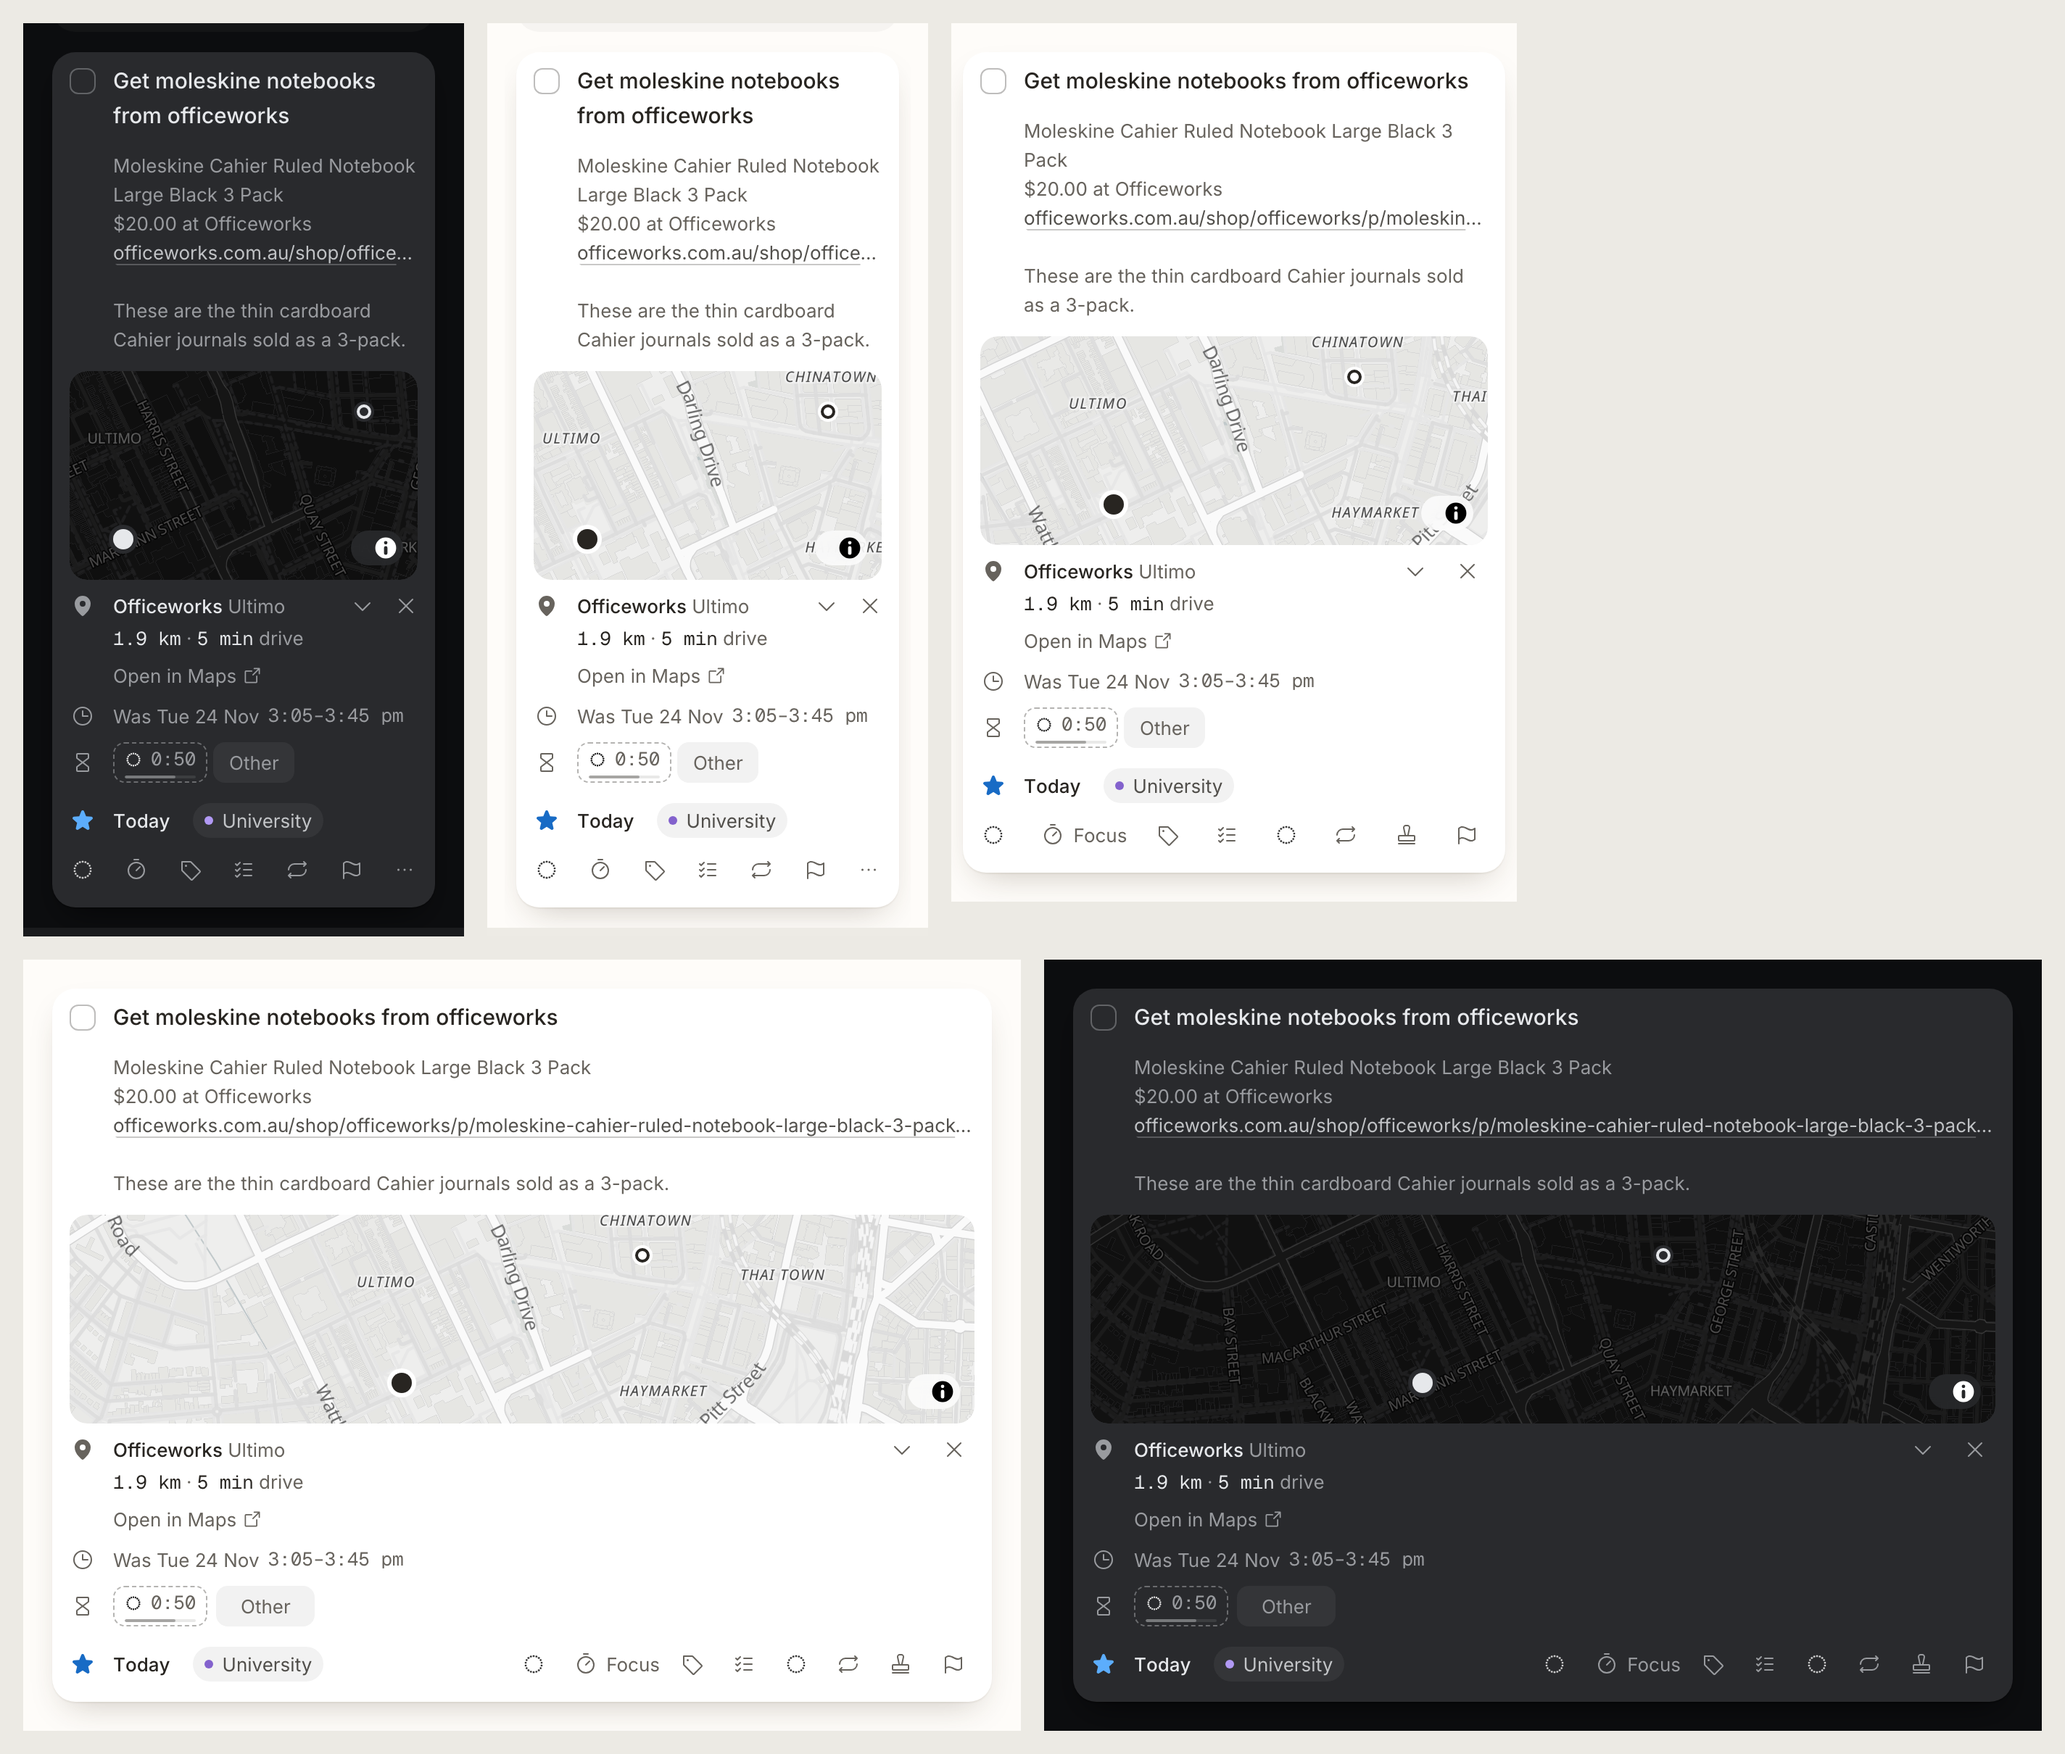
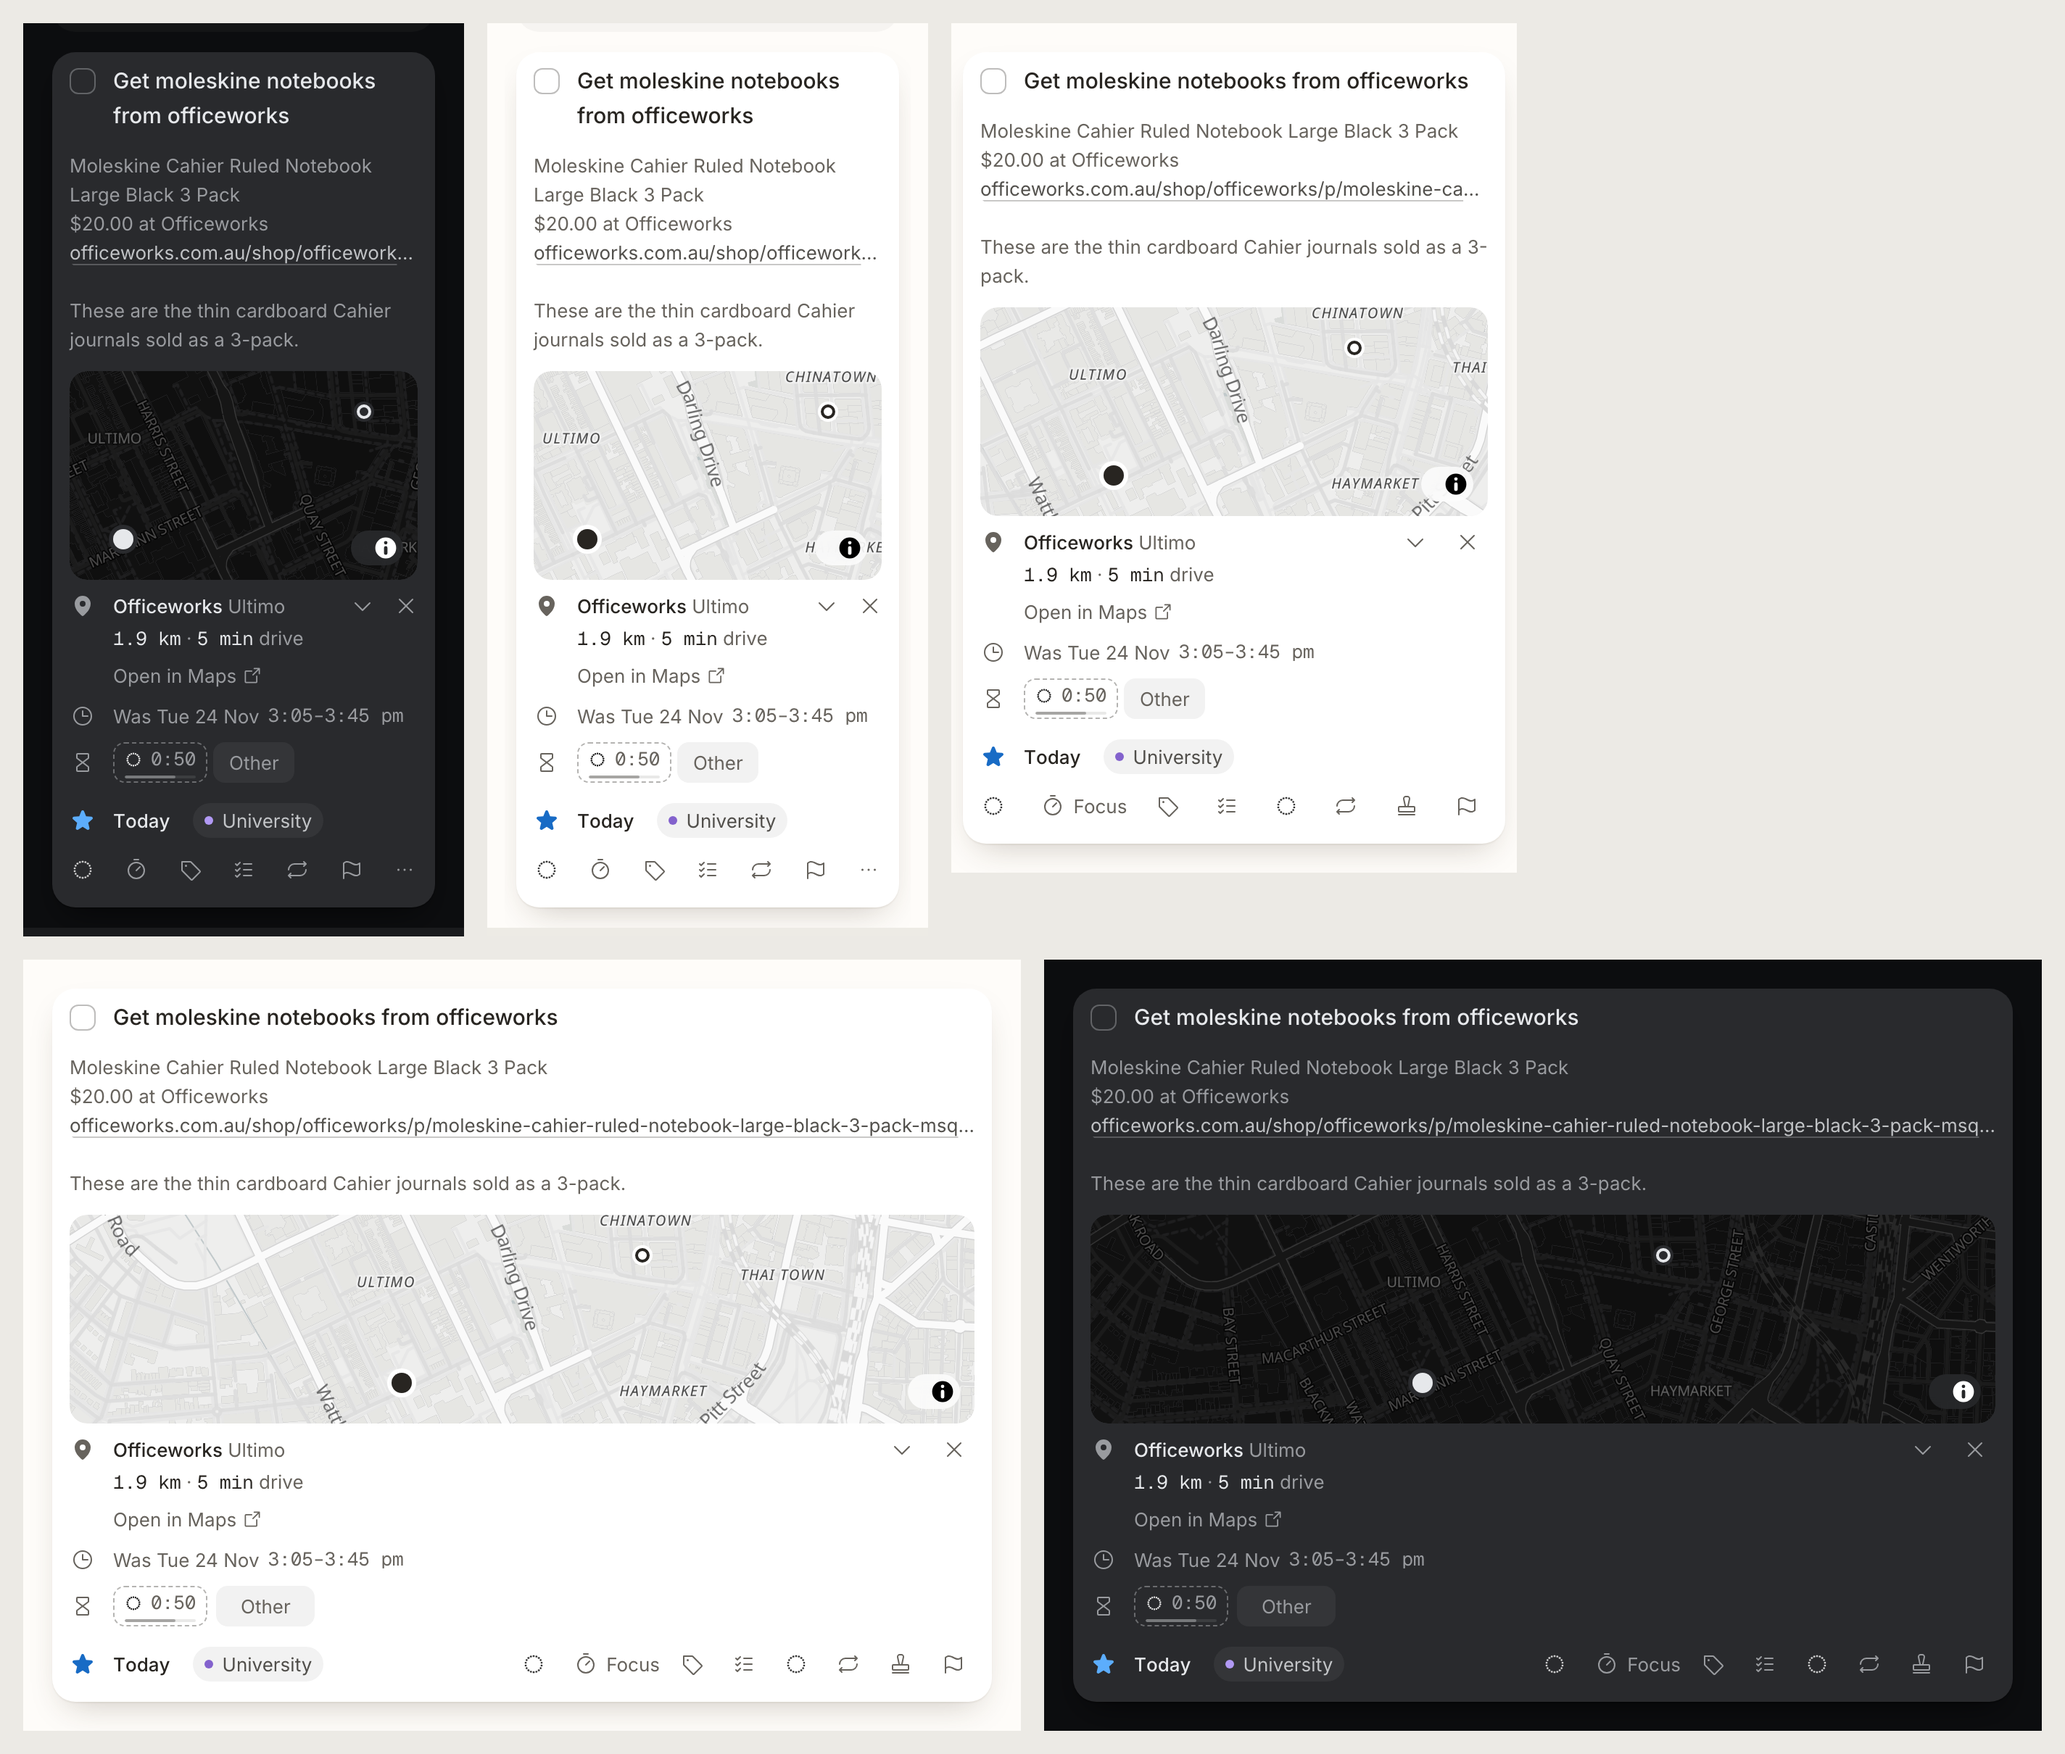
Web: the open Task card's notes run as wide as the map. The notes move out of the indented column, so they start at the card's left edge under the checkbox and end at its right edge, in the Planner column, a wide list and at iPhone width. The title, its links, note chips, the Checklist and the fact 

diff --git a/apps/web/src/components/app/task-card-body.tsx b/apps/web/src/components/app/task-card-body.tsx
@@ -201,10 +201,12 @@ export const TaskCardBody = ({ task, today }: { task: PlannerTask; today: string
 
   return (
     <div data-arrow-scope className="space-y-3 px-3 pt-1 pb-3">
-      <div className="space-y-3 pl-[1.875rem]">
+      <div className="space-y-3 pl-[1.875rem] empty:hidden">
         <TitleLinks title={task.title} />
         {saved && <TaskNotes taskId={task._id} />}
-        <NotesField notes={task.notes} onSave={actions.setNotes} />
+      </div>
+      <NotesField notes={task.notes} onSave={actions.setNotes} />
+      <div className="space-y-3 pl-[1.875rem] empty:hidden">
         <AnimatePresence initial={false}>
           {hasChecklist && (
             <motion.div

diff --git a/apps/web/scripts/check-card.py b/apps/web/scripts/check-card.py
@@ -3,7 +3,7 @@
 Seeds the Task from Avi's screenshot (long notes with a raw link, a Work Block that has passed, a Trip,
 one best-guess Estimate), opens it in the narrow Planner column, the wide Today list and at iPhone width,
 in light and dark, and checks the layout: the glyphs of the fact rows sit in one column under the checkbox,
-their text starts on the title's edge, the left and right insets match, nothing overflows the card, the
+their text starts on the title's edge, the notes run as wide as the map, the left and right insets match, nothing overflows the card, the
 tool row spans the card when it is narrow and sits on the When line when it is wide, a passed Work Block
 reads as passed, and the only brand blue left is the Today star. It also opens a second, fuller Task
 (Checklist, Labels, Deadline) so its screenshot can be looked at.
@@ -79,6 +79,8 @@ MEASURE = """(card) => {
     passed: card.querySelector('[data-passed]')?.textContent ?? null,
     linkLines: Math.round((box(card.querySelector('p[aria-label=Notes] a'))?.height ?? 0) / 20),
     linkHttp: (card.querySelector('p[aria-label=Notes] a')?.textContent ?? 'http').startsWith('http'),
+    notesEdges: [box(card.querySelector('p[aria-label=Notes]'))].map((rect) => [Math.round(rect.left), Math.round(rect.right)])[0],
+    mapEdges: [box(card.querySelector('.trip-map'))].map((rect) => [Math.round(rect.left), Math.round(rect.right)])[0],
   };
 }"""
 
@@ -142,6 +144,7 @@ def check(page, surface, theme):
     expect(f"{name}: nothing spills out of the card", measured["spill"], [])
     expect(f"{name}: the only brand blue is the Today star", measured["blue"], lambda blue: set(blue) <= {"when"})
     expect(f"{name}: the passed Work Block says so", measured["passed"], lambda text: text is not None and text.startswith("Was "))
+    expect(f"{name}: the notes run as wide as the map", measured["notesEdges"], measured["mapEdges"])
     expect(f"{name}: the link is one line without its scheme", (measured["linkLines"], measured["linkHttp"]), (1, False))
     if narrow:
         expect(f"{name}: the tool row spans the card evenly", abs(measured["toolsLeft"] - measured["toolsRight"]) <= 1 and measured["toolsBelowWhen"], True)
